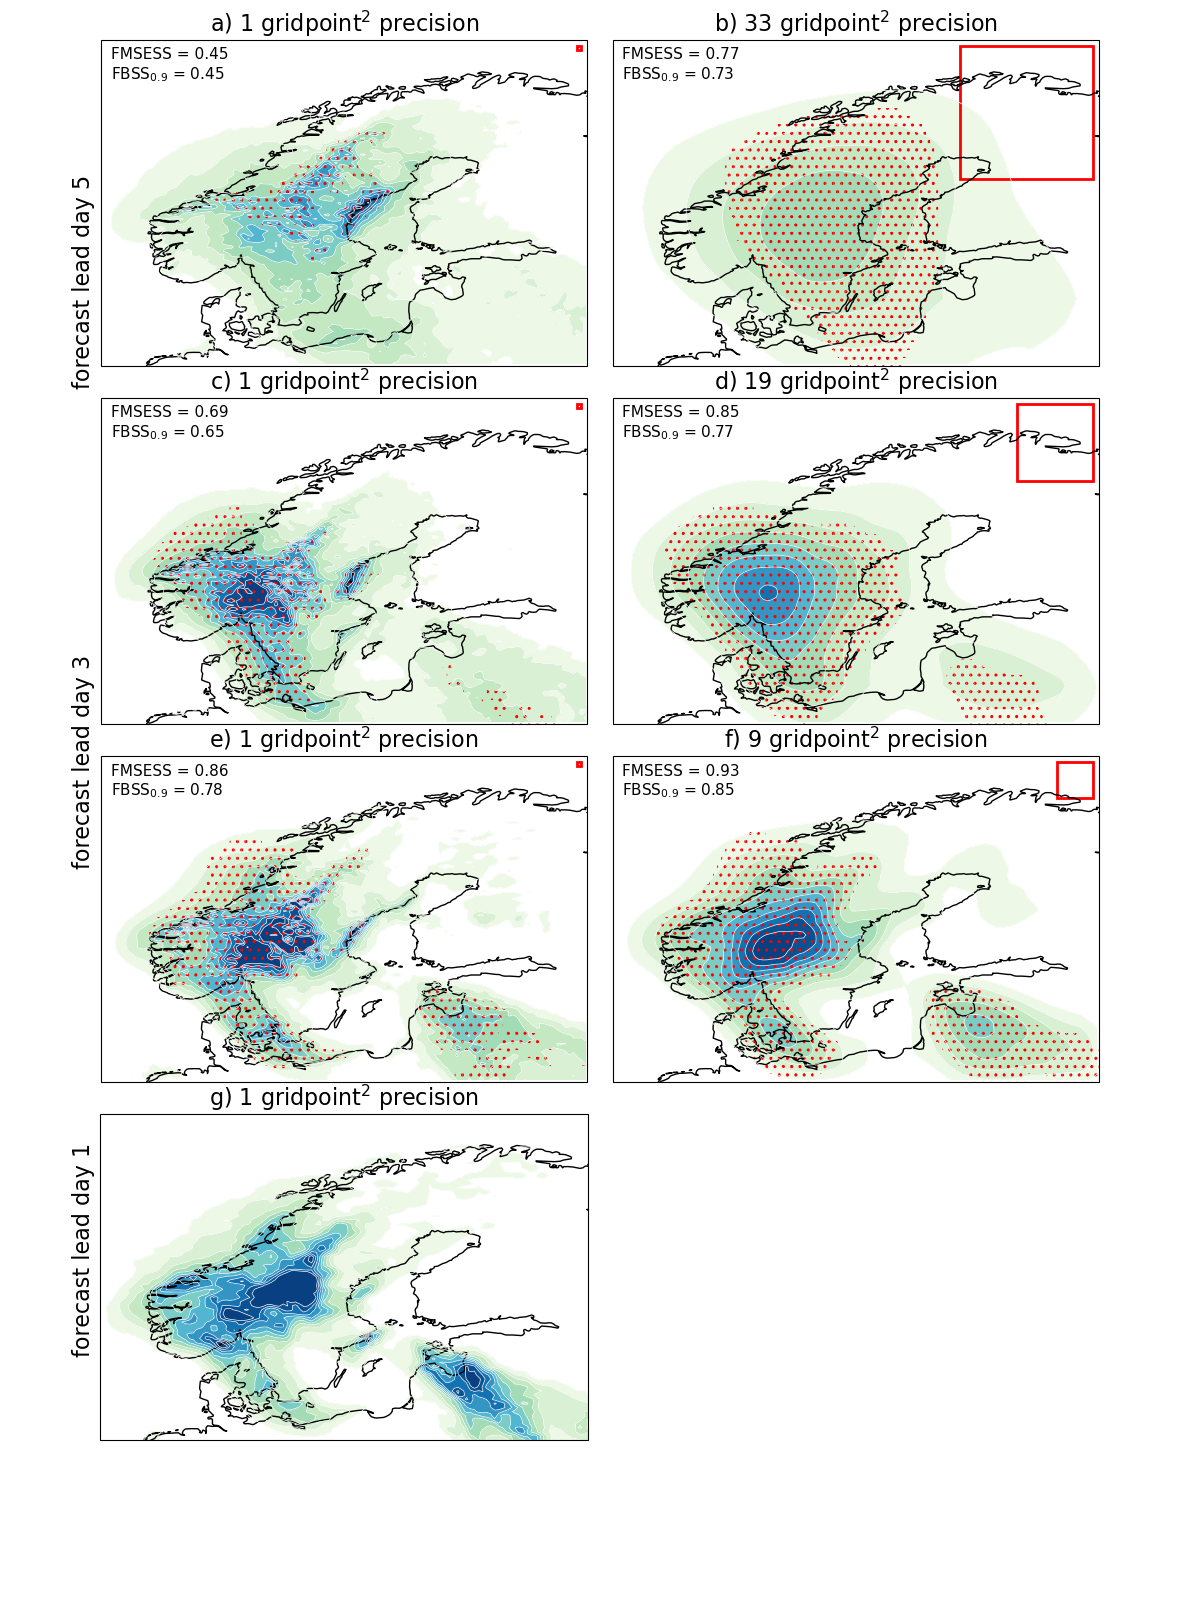
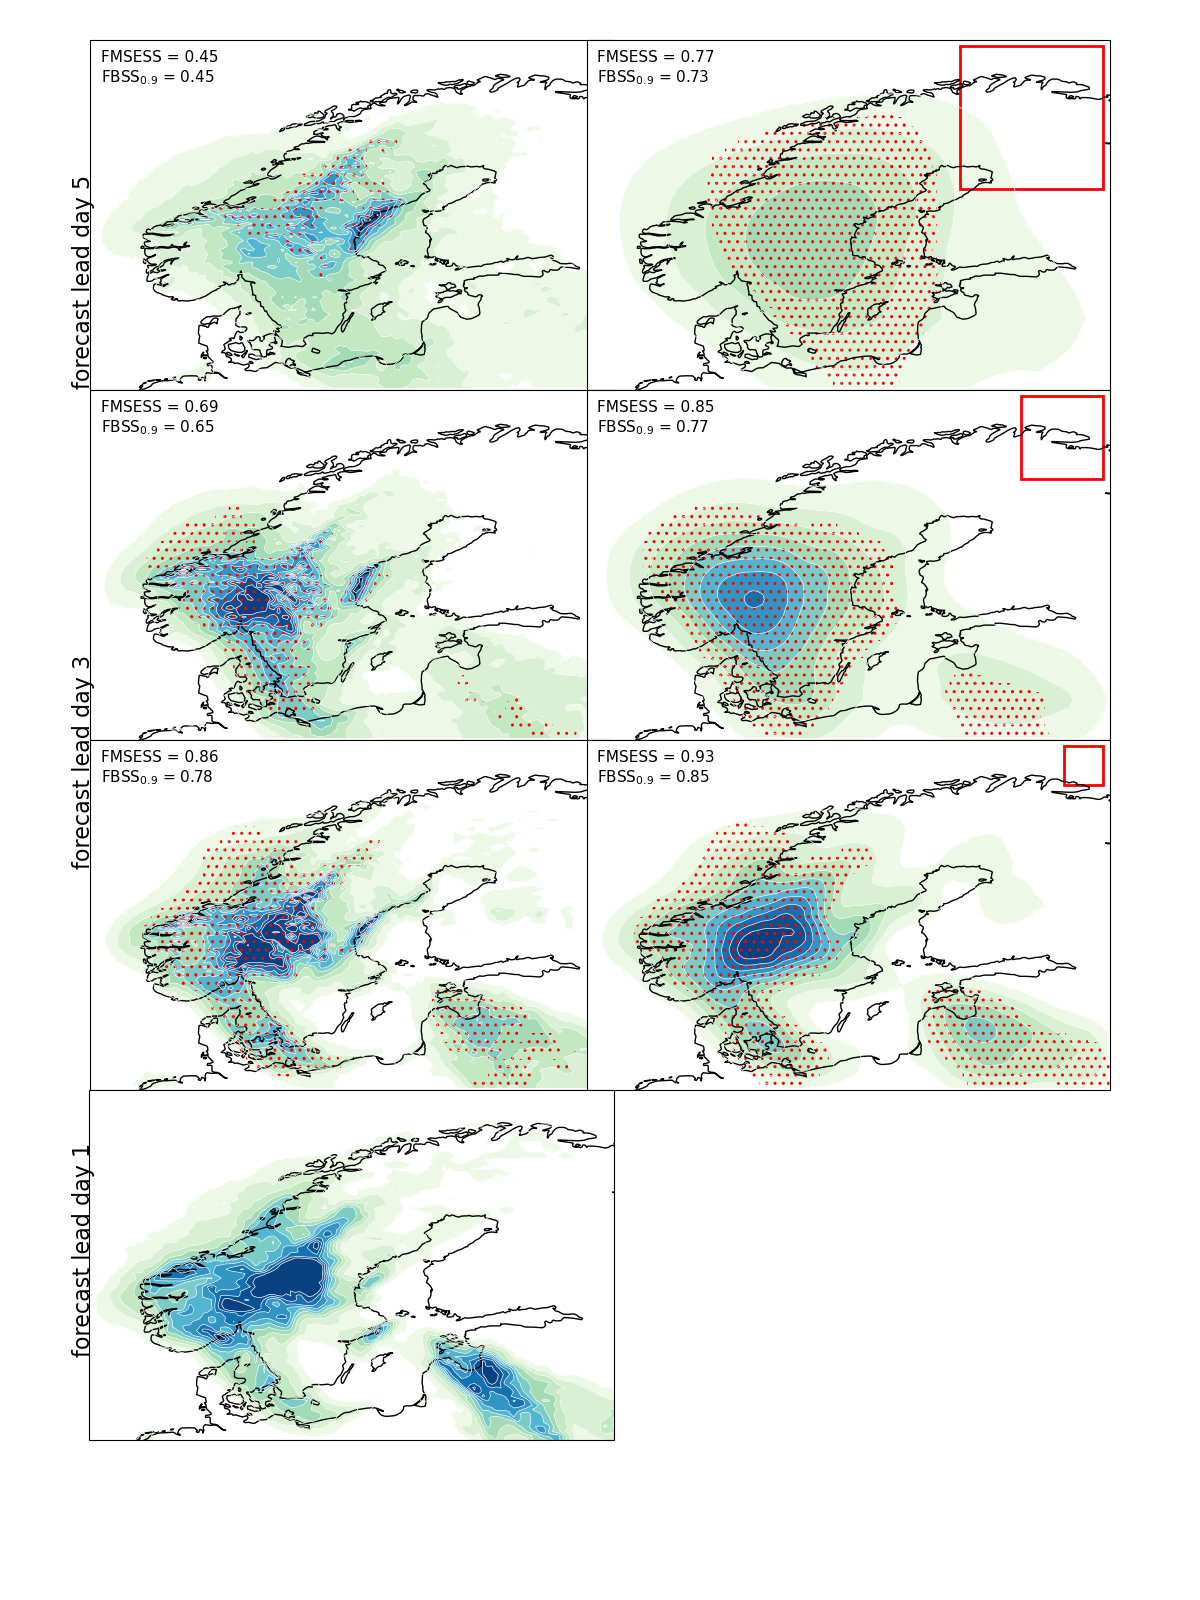
update

diff --git a/code/plot/test.py b/code/plot/test.py
@@ -27,10 +27,10 @@ def setup_subplot_xy(flag, ax, ds1, ds2, clevs, cmap, fontsize, title, stats):
         rectangle_length = 0.25*ds2['box_size']
         rectangle = plt.Rectangle((31.75, 72.75), rectangle_length, rectangle_length, angle=180, fc=(0.5,0.5,0.5,0),ec='r',lw=2)
         ax.add_patch(rectangle)        
-        ax.text(0.02,0.88,stats,fontsize=fontsize,transform=ax.transAxes)
+        #ax.text(0.02,0.88,stats,fontsize=fontsize,transform=ax.transAxes)
         
     ax.coastlines(color='k',linewidth=1)
-    ax.set_title(title,fontsize=fontsize+5)
+    #ax.set_title(title,fontsize=fontsize+5)
     
     
     return p
@@ -87,7 +87,7 @@ figsize  = np.array([12,16])
 fig,ax   = plt.subplots(nrows=4,ncols=2,figsize=(figsize[0],figsize[1]),subplot_kw={'projection': ccrs.PlateCarree(central_longitude=0.0)})
 ax       = ax.ravel()
 
-fig.subplots_adjust(right=0.95, left=0.05,top=0.975,bottom=0.1,hspace=0.1,wspace=-0.1)
+fig.subplots_adjust(right=0.95, left=0.05,top=0.975,bottom=0.1,hspace=0,wspace=-0.15)
 
 title1 = r'a) 1 gridpoint$^2$ precision'
 title2 = r'b) 33 gridpoint$^2$ precision'
